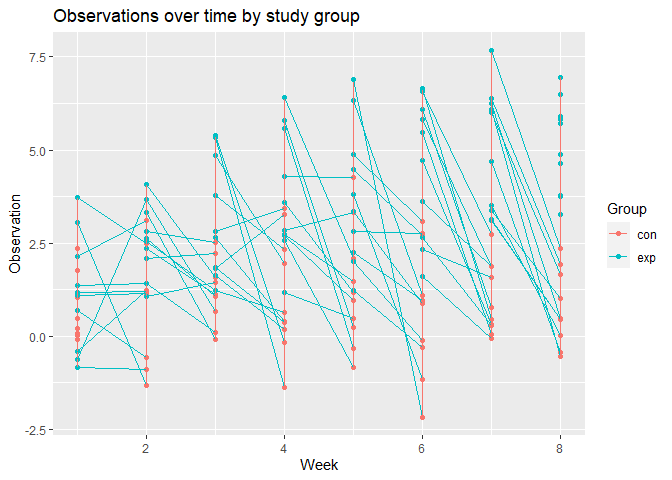
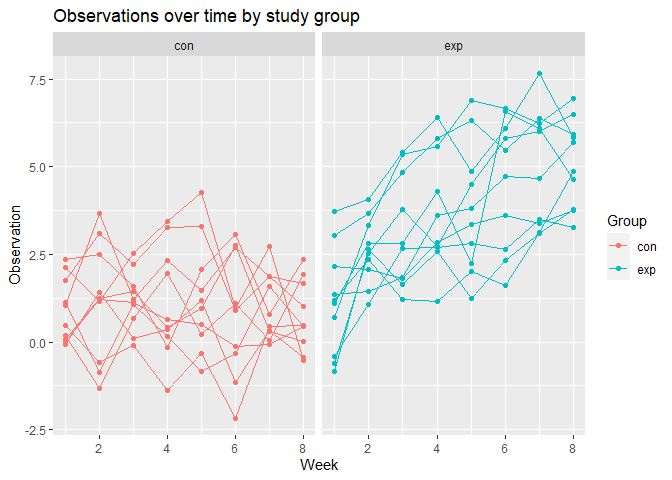
committing with 5000 interations rendered (previously 50 due to long render time)

diff --git a/p8105_hw5_ss6692.md b/p8105_hw5_ss6692.md
@@ -17,7 +17,7 @@ library(rvest)
 
 ### Problem 2
 
-#### Merging .csv files
+##### Merging .csv files
 
 ``` r
 con_files = list.files(path = "data/con_data/", pattern = ".csv" )
@@ -183,12 +183,13 @@ merged_df = bind_rows(con_df, exp_df) |>
   )
 ```
 
-#### Creating a spaghetti plot
+##### Creating a spaghetti plot
 
 ``` r
 merged_df |>
   ggplot(aes(x=week, y=observation, group = patient_id, color = arm)) +
-  geom_point()+
+  facet_grid(~arm) +
+  geom_point() +
   geom_line() +
   labs(title = "Observations over time by study group", 
         x = "Week",
@@ -196,14 +197,14 @@ merged_df |>
         color = "Group")
 ```
 
-![](p8105_hw5_ss6692_files/figure-gfm/spaghetti_plot-1.png)<!-- -->
-
-### Problem 3
-
-#### Setting up design elements
-
-First, we will calculate p values and mu hat using the provided
-specifications. This will be iterated 5000 times.
+![](p8105_hw5_ss6692_files/figure-gfm/spaghetti_plot-1.png)<!-- --> As
+shown by the plot, the the experimental group experienced greater
+overall changes over time. In general, the observations have a positive
+change from week 1 to week nice. The control group had less variation in
+observations and the observations remained relatively stable over the 9
+weeks. \### Problem 3 \#### Setting up design elements \##### First, we
+will calculate p values and mu hat using the provided specifications.
+This will be iterated 5000 times.
 
 ``` r
 sim_power = function(mu) {
@@ -221,7 +222,7 @@ sim_power = function(mu) {
 
 sim_power_results = expand_grid(
   mu_df = c(0, 1, 2, 3, 4, 5, 6), 
-  iteration = 1:50
+  iteration = 1:5000
 ) |> 
   mutate(
     estimate = map(mu_df, sim_power)
@@ -229,7 +230,7 @@ sim_power_results = expand_grid(
   unnest(estimate)
 ```
 
-Now, we will plot the power of the test by the true mu.
+##### Now, we will plot the power of the test by the true mu.
 
 ``` r
 sim_power_results |> 
@@ -244,8 +245,9 @@ sim_power_results |>
 ```
 
 ![](p8105_hw5_ss6692_files/figure-gfm/plotting_power-1.png)<!-- -->
+Power increases as effect size increases.
 
-Now, we will calculate the true mu
+##### Now, we will calculate the true mu
 
 ``` r
 true_mu =
@@ -254,8 +256,7 @@ true_mu =
   summarize(mean_mu = mean(mu_hat))
 ```
 
-Now, we will calculate the average estimate of mu in samples where the
-null was rejected
+##### Now, we will calculate the average estimate of mu in samples where the null was rejected
 
 ``` r
 reject_mu = 
@@ -265,13 +266,17 @@ reject_mu =
   summarize(mean_mu = mean(mu_hat))
 ```
 
-Now, we plot the rejected mu over the true mu to compare.
+##### Now, we plot the rejected mu over the true mu to compare.
 
 ``` r
 ggplot(true_mu, aes(x = mu_df, y = mean_mu)) +
   geom_line() +
   geom_line(data = reject_mu, color = "blue") +
-  labs(title = "Comparing True μ to the Rejected μ")
+  labs(title = "Comparing the True μ to the Rejected μ")
 ```
 
-![](p8105_hw5_ss6692_files/figure-gfm/mu_plot-1.png)<!-- -->
+![](p8105_hw5_ss6692_files/figure-gfm/true_rej_mu-1.png)<!-- -->
+
+As the plot shows, the rejected mu reflects the true mu at around 4.
+This is likely because as effect size increases, the rejected mu is more
+representative of the true mu.
